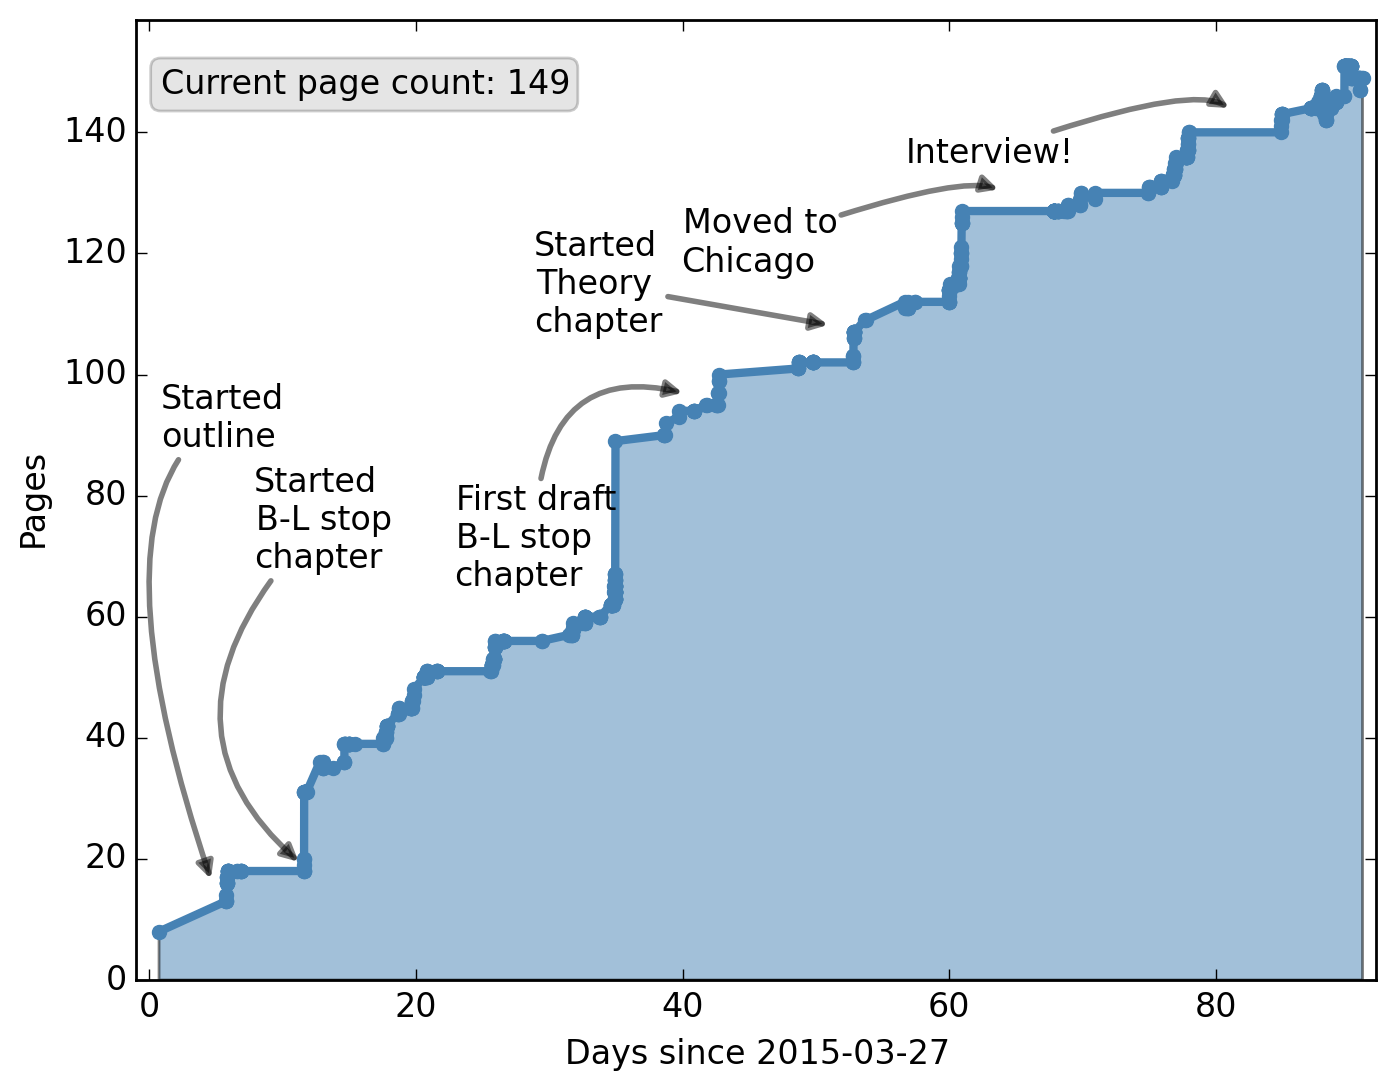
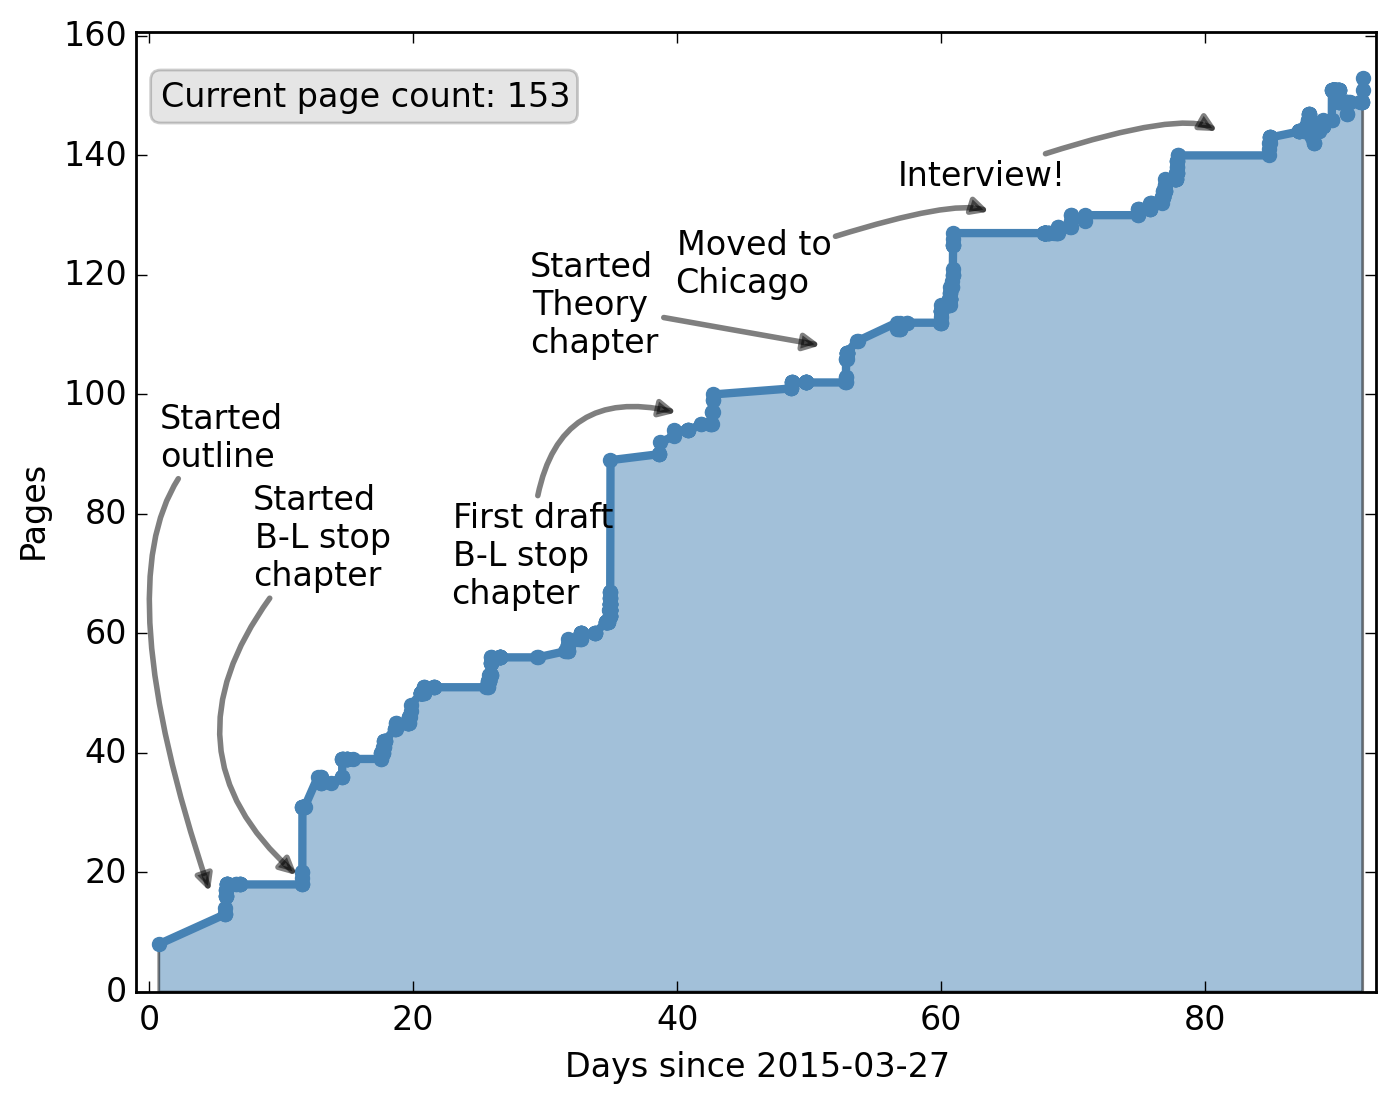
add pdf stuff

diff --git a/tex/mc.tex b/tex/mc.tex
@@ -22,7 +22,8 @@ Section~\ref{sec:event_gen}.
 In the event generation stage, the actual Physics processes that occur as a
 result of the collision are simulated.
 This includes the hard interaction as well as the resulting decay of any
-unstable particles.
+unstable particles, and finally the hadronization of any decay products with
+color charge.
 As in the real detector, once the proton collisions are simulated, the decay
 products travel through the detector, and may leave a measurable signature
 which can be measured.
@@ -42,7 +43,8 @@ At each of these crossings, protons from the two beams collide with one
 another, resulting in a spray of particles in the detector.
 Each of these crossings represents a single event.
 Figure~\ref{fig:mc_event} shows a pictorial representation of a simulated
-$t\bar{t}H$ event.
+$t\bar{t}H$ event, and Figure~\ref{fig:data_event} shows a $t\bar{t}H$
+candidate event as reconstructed in the ATLAS detector.
 
 \begin{figure}[p]
   \centering
@@ -64,6 +66,17 @@ $t\bar{t}H$ event.
   \label{fig:mc_event}
 \end{figure}
 
+\begin{figure}[ht]
+  \centering
+  \includegraphics[width=\textwidth, clip=true, trim=0 0 0 0]
+  {figs/mc_gen/tth_event.png}
+  \caption{
+    Candidate $t\bar{t}H$ event, observed in the ATLAS
+    detector~\cite{Aad:2015iha}.
+  }
+  \label{fig:data_event}
+\end{figure}
+
 Looking more closely at the interactions taking place, one notices that,
 rather than the full protons interacting with each other, the interactions
 take place between the constituent quarks and gluons within the two protons.
@@ -77,15 +90,63 @@ addition to those coming from the hard interaction.
 
 %% - - - - - - - - - - - - - - - - - - - - - - - - - - - - - - - - - - - - - - -
 \FloatBarrier
+\subsection{Parton distribution function}
+\label{sec:pdf}
+
+It is often said a proton is made up of three quarks and the gluons holding
+them together.
+Due to the QCD effects, this is actually a simplification, and additional
+quarks and gluons are produced within hadrons, and have a large impact 
+on the interactions between colliding hadrons.
+The parton content with hadrons is described by a parton distribution
+function (PDF).
+
+The PDF of a proton, $p(x, \mu^2)$, gives the probability that, at a particular
+energy scale $\mu^2$, a particular parton, $p$, is found inside the proton, with
+a fraction of the total momentum between $x$ and $x+dx$.
+A proton must satisfy the following sum rules in order to have the correct
+``valance quark'' content.
+\begin{align}
+  \int_0^1 \left( u(x, \mu^2) - \bar{u}(x, \mu^2) \right) dx & = 2, \\
+  \int_0^1 \left( d(x, \mu^2) - \bar{d}(x, \mu^2) \right) dx & = 1, \\
+  \int_0^1 \left( q(x, \mu^2) - \bar{q}(x, \mu^2) \right) dx & = 0,
+\end{align}
+Where $q$ is any other quark flavor.
+
+PDFs are tuned to the observed data at collider experiments such as ATLAS,
+and improve over time as more data is collected at higher energy scales.
+Two example PDFs, provided by the NNPDF group, are shown in
+Figure~\ref{fig:pdfs}, corresponding to different energy scales.
+The CTEQ 6L1 PDF tune is used for the simulated stop pair production in the
+analysis described in this thesis.
+
+
+\begin{figure}
+  \centering
+  \includegraphics[width=0.80\textwidth]{figs/mc_gen/pdfs.png}
+  \caption{Parton distribution function (PDF) distributions for different
+    parton species within the proton as obtained by the NNPDF collaboration.
+    The two PDF distributions are obtained for different energy
+    scales ($\mu^2$)~\cite{nnpdf}.
+  }
+  \label{fig:pdfs}
+\end{figure}
+
+
+%% - - - - - - - - - - - - - - - - - - - - - - - - - - - - - - - - - - - - - - -
+\FloatBarrier
 \subsection{Underlying event}
+\label{sec:underlying_event}
 
 %% - - - - - - - - - - - - - - - - - - - - - - - - - - - - - - - - - - - - - - -
 \FloatBarrier
 \subsection{Matrix element}
+\label{sec:matrix_element}
 
 %% - - - - - - - - - - - - - - - - - - - - - - - - - - - - - - - - - - - - - - -
 \FloatBarrier
 \subsection{Parton shower}
+\label{sec:parton_shower}
 
 %% - - - - - - - - - - - - - - - - - - - - - - - - - - - - - - - - - - - - - - -
 \FloatBarrier

diff --git a/PageNumbers.md b/PageNumbers.md
@@ -637,3 +637,10 @@ Thu Jun 25 14:14:53 CDT 2015 , 147
 Thu Jun 25 14:29:27 CDT 2015 , 147
 Thu Jun 25 17:14:52 CDT 2015 , 149
 Thu Jun 25 18:44:33 CDT 2015 , 149
+Fri Jun 26 13:40:57 CDT 2015 , 149
+Fri Jun 26 17:12:28 CDT 2015 , 149
+Fri Jun 26 17:25:34 CDT 2015 , 149
+Fri Jun 26 17:29:53 CDT 2015 , 149
+Fri Jun 26 17:46:31 CDT 2015 , 149
+Fri Jun 26 18:02:27 CDT 2015 , 151
+Fri Jun 26 18:11:01 CDT 2015 , 153
